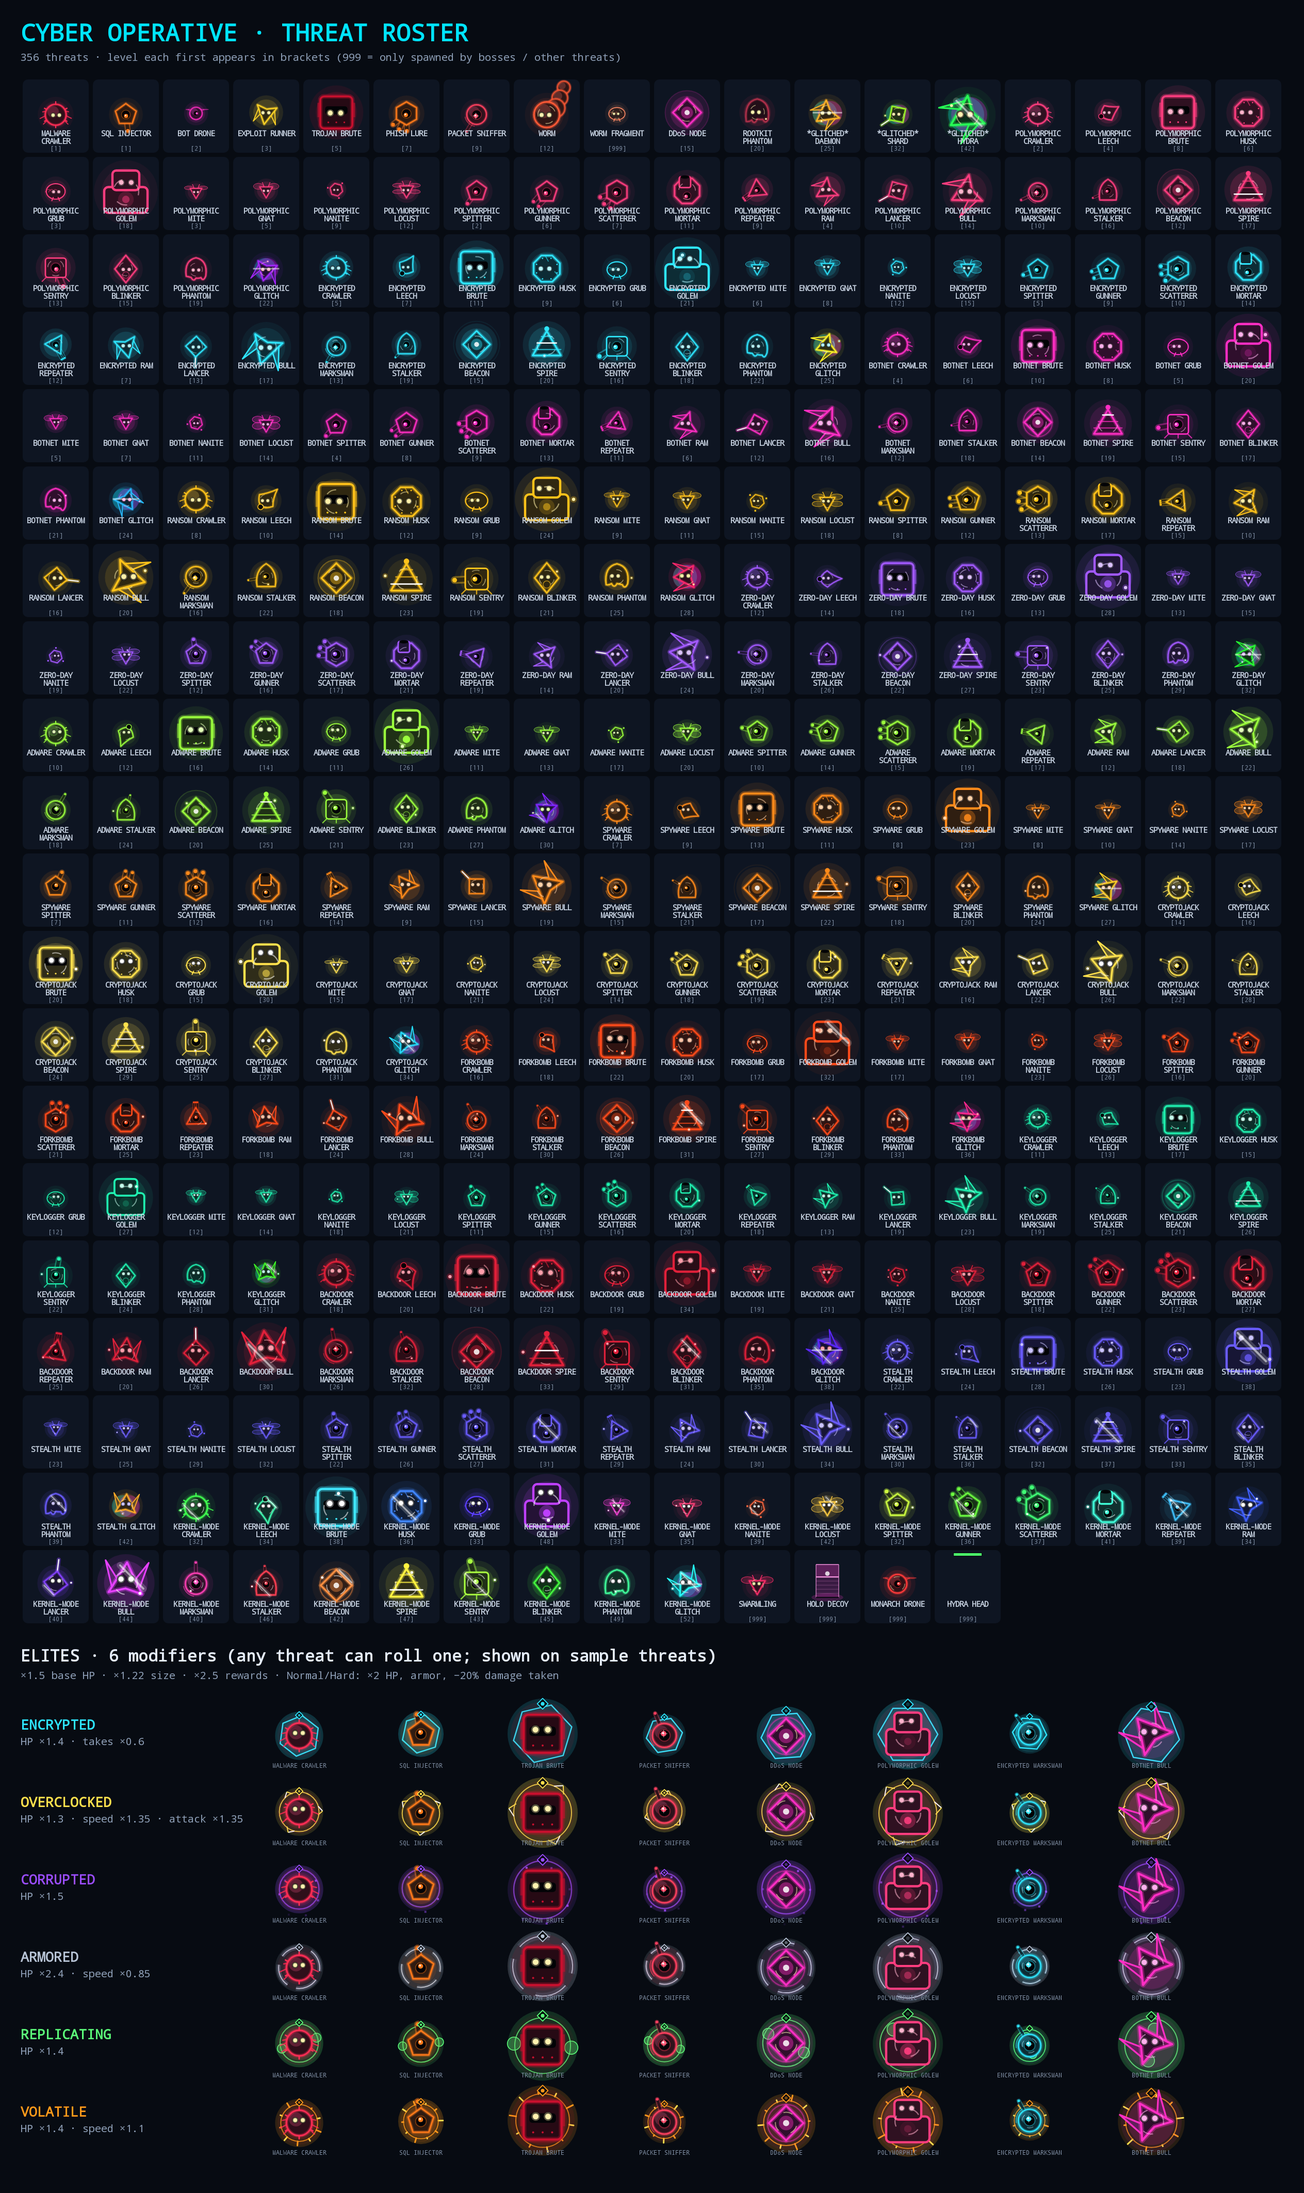
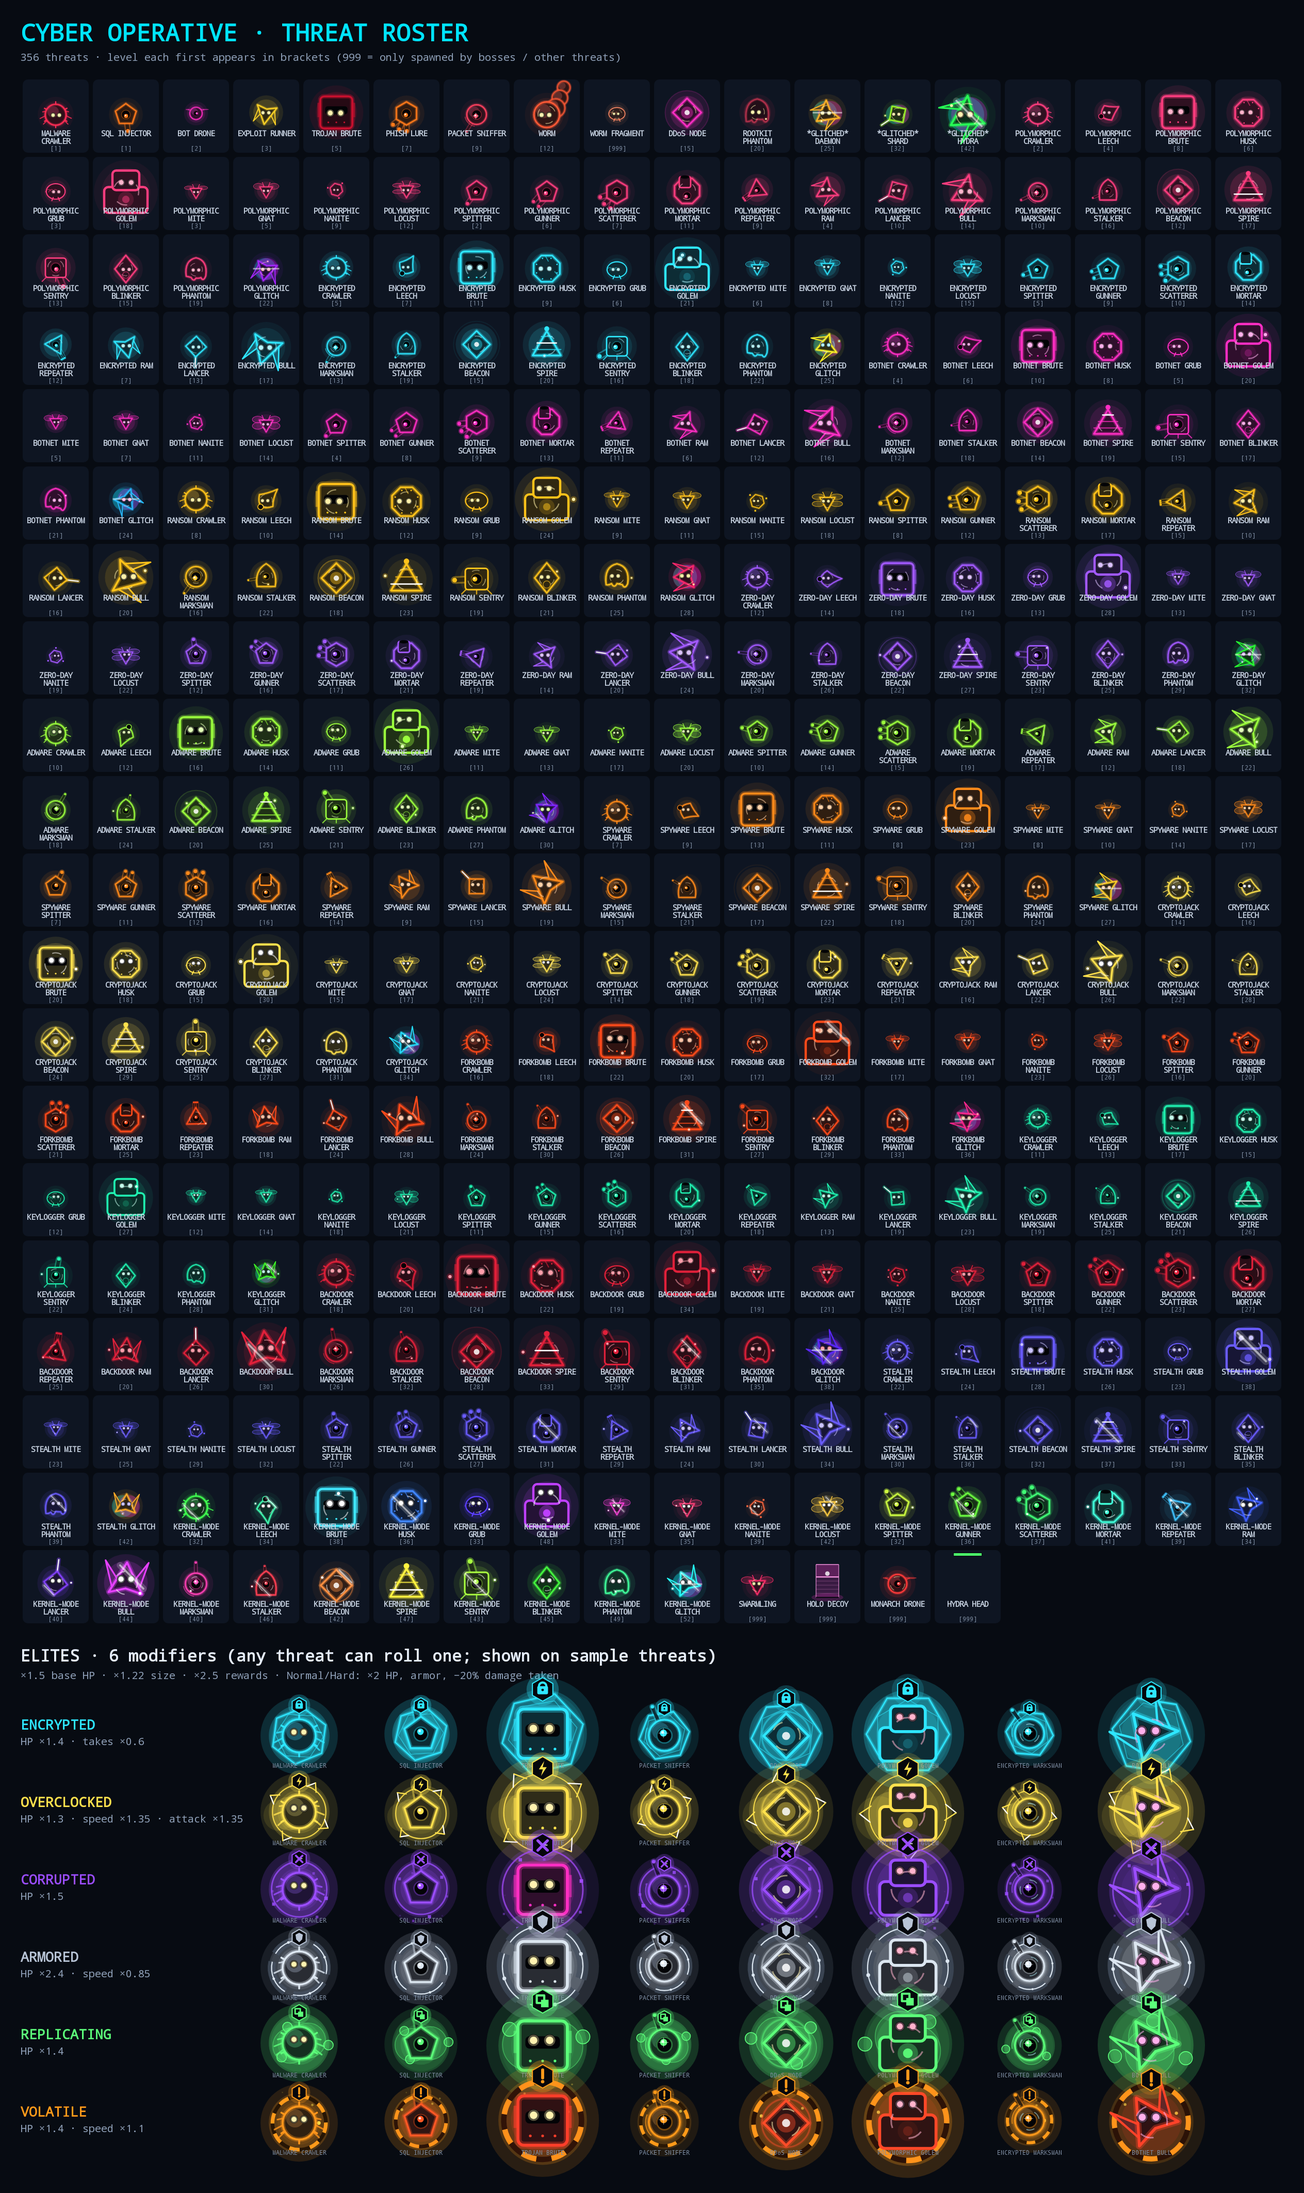
0.19.1: elites drawn 30% larger, modifier-coloured bodies, symbol badges, stronger frames
Claude-Session: https://claude.ai/code/session_01J4fYSi9rfQR62SLnfyrDCN

Changed region(s): [[0.1875, 0.7454, 0.5312, 0.9939], [0.5625, 0.7454, 0.8125, 0.9939], [0.8438, 0.7454, 0.9375, 0.9939]]

diff --git a/app/src/main/java/com/cyberoperative/game/ui/game/EnemySprites.kt b/app/src/main/java/com/cyberoperative/game/ui/game/EnemySprites.kt
@@ -116,11 +116,14 @@ internal object EnemySprites {
      * Draws threat [def] centred at ([cx], [cy]) with radius [r]. [aim] (radians) points at the
      * operative it is fighting; [winding] flashes the trim before an attack; [hit] whitens it.
      */
-    fun DrawScope.draw(def: EnemyDef, cx: Float, cy: Float, r: Float, time: Float, uid: Int, aim: Float, winding: Boolean, hit: Boolean) {
+    fun DrawScope.draw(def: EnemyDef, cx: Float, cy: Float, r: Float, time: Float, uid: Int, aim: Float, winding: Boolean, hit: Boolean,
+                       elite: EliteModifier? = null) {
         val lk = look(def)
         val glitch = lk.form == Form.GLITCH
         var trim = when {
             glitch -> Color.hsv((time * 220f + uid * 47f) % 360f, 0.85f, 1f)
+            // Elites wear their modifier's colour (owner, 2026-10-11: "more distinct").
+            elite != null -> eliteTrim(elite, time, uid)
             lk.spectrum -> Color.hsv((time * 90f + uid * 31f) % 360f, 0.75f, 1f)
             else -> lk.color
         }
@@ -523,71 +526,135 @@ internal object EnemySprites {
 
     // --- elites --------------------------------------------------------------------------
 
-    /** Behind the body: each elite modifier has its own frame. */
+    /** On-screen size of an elite next to a regular threat (hitbox unchanged). */
+    const val ELITE_DRAW_SCALE = 1.3f
+
+    /** The body trim an elite wears: its modifier colour (Corrupted flickers, Volatile throbs). */
+    private fun eliteTrim(m: EliteModifier, time: Float, uid: Int): Color = when (m) {
+        EliteModifier.CORRUPTED -> if (((time * 11f).toInt() + uid) % 7 == 0) Color(0xFFFF2EC4) else Color(m.color)
+        EliteModifier.VOLATILE -> mix(Color(m.color), Color(0xFFFF2D2D), 0.5f + 0.5f * sin(time * 9f + uid))
+        EliteModifier.ARMORED -> Color(0xFFDCE6F0)
+        else -> Color(m.color)
+    }
+
+    /** Behind the body: each modifier's own frame. */
     fun DrawScope.eliteBack(m: EliteModifier, c: Offset, r: Float, time: Float, uid: Int) {
         val col = Color(m.color)
         val p = 0.5f + 0.5f * sin(time * 5f + uid)
-        drawCircle(col.copy(alpha = 0.12f + 0.1f * p), r * 1.7f, c)
+        // A strong floor halo in the modifier colour so elites pop out of any crowd.
+        drawCircle(col.copy(alpha = 0.10f + 0.08f * p), r * 2.1f, c)
+        drawCircle(col.copy(alpha = 0.16f + 0.1f * p), r * 1.65f, c)
         when (m) {
             EliteModifier.ENCRYPTED -> {
-                // Rotating hex cage.
-                val cage = poly(c, r * 1.45f, 6, time * 0.6f)
-                drawPath(cage, col.copy(alpha = 0.12f))
-                drawPath(cage, col, style = Stroke(2.5f, join = StrokeJoin.Round))
+                val cage = poly(c, r * 1.55f, 6, time * 0.6f)
+                drawPath(cage, col.copy(alpha = 0.14f))
+                drawPath(cage, col.copy(alpha = 0.35f), style = Stroke(7f, join = StrokeJoin.Round))
+                drawPath(cage, col, style = Stroke(2.6f, join = StrokeJoin.Round))
+                val inner = poly(c, r * 1.3f, 6, -time * 0.9f)
+                drawPath(inner, col.copy(alpha = 0.6f), style = Stroke(1.4f, join = StrokeJoin.Round))
             }
             EliteModifier.OVERCLOCKED -> {
-                drawCircle(col.copy(alpha = 0.85f), r * 1.4f, c, style = Stroke(2f))
-                for (k in 0 until 3) {
-                    val a = time * 5f + k * MathUtil.TWO_PI / 3 + uid
-                    val p1 = Offset(c.x + cos(a) * r * 1.4f, c.y + sin(a) * r * 1.4f)
-                    val p2 = Offset(c.x + cos(a + 0.25f) * r * 1.65f, c.y + sin(a + 0.25f) * r * 1.65f)
-                    val p3 = Offset(c.x + cos(a + 0.45f) * r * 1.35f, c.y + sin(a + 0.45f) * r * 1.35f)
-                    drawLine(Color.White, p1, p2, 2f); drawLine(col, p2, p3, 2f)
+                // Speed after-images trailing behind, then crackling arcs.
+                for (k in 1..2) drawCircle(col.copy(alpha = 0.22f / k), r * (1f - k * 0.08f), Offset(c.x - k * r * 0.55f, c.y + k * r * 0.1f))
+                drawCircle(col.copy(alpha = 0.9f), r * 1.45f, c, style = Stroke(2.2f))
+                for (k in 0 until 4) {
+                    val a = time * 6f + k * MathUtil.TWO_PI / 4 + uid
+                    val p1 = Offset(c.x + cos(a) * r * 1.45f, c.y + sin(a) * r * 1.45f)
+                    val p2 = Offset(c.x + cos(a + 0.22f) * r * 1.8f, c.y + sin(a + 0.22f) * r * 1.8f)
+                    val p3 = Offset(c.x + cos(a + 0.42f) * r * 1.4f, c.y + sin(a + 0.42f) * r * 1.4f)
+                    drawLine(Color.White, p1, p2, 2.4f, StrokeCap.Round); drawLine(col, p2, p3, 2.4f, StrokeCap.Round)
                 }
             }
             EliteModifier.CORRUPTED -> {
-                drawCircle(col.copy(alpha = 0.7f), r * 1.4f, c, style = Stroke(2.5f))
-                for (k in 0 until 7) {
-                    val a = k * MathUtil.TWO_PI / 7 + uid
+                drawCircle(col.copy(alpha = 0.75f), r * 1.5f, c, style = Stroke(3f))
+                for (k in 0 until 10) {
+                    val a = k * MathUtil.TWO_PI / 10 + uid
                     val drip = ((time * 0.8f + k * 0.31f) % 1f)
-                    drawRect(col.copy(alpha = 1f - drip), Offset(c.x + cos(a) * r * 1.4f - 2f, c.y + sin(a) * r * 1.4f + drip * r * 0.6f), Size(4f, 4f))
+                    val s = 5f * (1f - drip) + 2f
+                    drawRect(col.copy(alpha = 1f - drip), Offset(c.x + cos(a) * r * 1.5f - s / 2, c.y + sin(a) * r * 1.5f + drip * r * 0.8f), Size(s, s))
                 }
             }
             EliteModifier.ARMORED -> {
                 for (k in 0 until 4) {
                     val a = k * 90f + 45f + time * 20f
-                    drawArc(Color(0xFF3A4452), a - 32f, 64f, false, Offset(c.x - r * 1.45f, c.y - r * 1.45f), Size(r * 2.9f, r * 2.9f), style = Stroke(r * 0.32f))
-                    drawArc(col, a - 32f, 64f, false, Offset(c.x - r * 1.45f, c.y - r * 1.45f), Size(r * 2.9f, r * 2.9f), style = Stroke(2f))
+                    drawArc(Color(0xFF3A4452), a - 36f, 72f, false, Offset(c.x - r * 1.5f, c.y - r * 1.5f), Size(r * 3f, r * 3f), style = Stroke(r * 0.42f))
+                    drawArc(Color(0xFFDCE6F0), a - 36f, 72f, false, Offset(c.x - r * 1.5f, c.y - r * 1.5f), Size(r * 3f, r * 3f), style = Stroke(2.2f))
+                    val ra = Math.toRadians(a.toDouble()).toFloat()
+                    drawCircle(Color(0xFFDCE6F0), r * 0.07f, Offset(c.x + cos(ra) * r * 1.5f, c.y + sin(ra) * r * 1.5f))
                 }
             }
             EliteModifier.REPLICATING -> {
+                // Two ghost clones peeling off the body.
                 for (k in 0 until 2) {
                     val a = time * 2.4f + k * MathUtil.PI
-                    val o = Offset(c.x + cos(a) * r * 1.4f, c.y + sin(a) * r * 0.8f)
-                    drawCircle(col.copy(alpha = 0.3f), r * 0.32f, o)
-                    drawCircle(col, r * 0.32f, o, style = Stroke(1.6f))
+                    val o = Offset(c.x + cos(a) * r * 0.55f, c.y + sin(a) * r * 0.3f)
+                    drawCircle(col.copy(alpha = 0.18f), r * 0.95f, o)
+                    drawCircle(col.copy(alpha = 0.45f), r * 0.95f, o, style = Stroke(1.6f))
                 }
-                drawCircle(col.copy(alpha = 0.8f), r * 1.35f, c, style = Stroke(2f))
+                for (k in 0 until 3) {
+                    val a = -time * 1.8f + k * MathUtil.TWO_PI / 3
+                    val o = Offset(c.x + cos(a) * r * 1.6f, c.y + sin(a) * r * 0.95f)
+                    drawCircle(col.copy(alpha = 0.35f), r * 0.26f, o)
+                    drawCircle(col, r * 0.26f, o, style = Stroke(1.6f))
+                }
             }
             EliteModifier.VOLATILE -> {
-                for (k in 0 until 10) {
-                    val a = k * MathUtil.TWO_PI / 10 + time * 1.5f
-                    val f = 0.6f + 0.4f * sin(time * 12f + k * 1.7f)
-                    drawLine(if (k % 2 == 0) col else Color(0xFFFFE14D), Offset(c.x + cos(a) * r * 1.3f, c.y + sin(a) * r * 1.3f),
-                        Offset(c.x + cos(a) * r * (1.3f + 0.35f * f), c.y + sin(a) * r * (1.3f + 0.35f * f)), 3f, StrokeCap.Round)
+                // Hazard-striped warning ring and rising embers.
+                for (k in 0 until 16) {
+                    val a = k * 22.5f + time * 40f
+                    drawArc(if (k % 2 == 0) col else Color(0xFF1A0E04), a, 22.5f, false, Offset(c.x - r * 1.45f, c.y - r * 1.45f), Size(r * 2.9f, r * 2.9f), style = Stroke(r * 0.2f))
                 }
-                drawCircle(col.copy(alpha = 0.8f), r * 1.3f, c, style = Stroke(2f))
+                for (k in 0 until 6) {
+                    val f = ((time * 0.9f + k * 0.17f + uid * 0.05f) % 1f)
+                    val x = c.x + sin(k * 2.3f + uid) * r * 1.1f
+                    drawCircle(Color(0xFFFFE14D).copy(alpha = 1f - f), 2.6f * (1f - f) + 1f, Offset(x, c.y - f * r * 2f))
+                }
             }
         }
     }
 
-    /** In front of the body: a small badge so the modifier reads even in a crowd. */
+    /** In front of the body: a big badge with the modifier's symbol, readable in a crowd. */
     fun DrawScope.eliteFront(m: EliteModifier, c: Offset, r: Float, time: Float) {
         val col = Color(m.color)
-        val b = Offset(c.x, c.y - r * 1.45f)
-        val s = max(4f, r * 0.26f)
-        drawPath(poly(b, s, 4, -MathUtil.PI / 2f), Color(0xFF05070C))
-        drawPath(poly(b, s, 4, -MathUtil.PI / 2f), col, style = Stroke(1.8f, join = StrokeJoin.Round))
-        drawCircle(col.copy(alpha = 0.6f + 0.4f * sin(time * 6f)), s * 0.35f, b)
+        val s = max(7f, r * 0.4f)
+        val b = Offset(c.x, c.y - r * 1.25f - s)
+        val pulse = 0.75f + 0.25f * sin(time * 6f)
+        drawCircle(col.copy(alpha = 0.3f * pulse), s * 1.5f, b)
+        drawPath(poly(b, s * 1.1f, 6, -MathUtil.PI / 2f), Color(0xFF05070C))
+        drawPath(poly(b, s * 1.1f, 6, -MathUtil.PI / 2f), col, style = Stroke(2f, join = StrokeJoin.Round))
+        val w = max(1.5f, s * 0.2f)
+        val st = Stroke(w, cap = StrokeCap.Round, join = StrokeJoin.Round)
+        when (m) {
+            EliteModifier.ENCRYPTED -> { // padlock
+                drawArc(col, 180f, 180f, false, Offset(b.x - s * 0.35f, b.y - s * 0.65f), Size(s * 0.7f, s * 0.7f), style = st)
+                drawRoundRect(col, Offset(b.x - s * 0.5f, b.y - s * 0.3f), Size(s, s * 0.75f), CornerRadius(s * 0.12f))
+                drawCircle(Color(0xFF05070C), s * 0.12f, Offset(b.x, b.y + s * 0.05f))
+            }
+            EliteModifier.OVERCLOCKED -> { // lightning bolt
+                path.reset(); path.moveTo(b.x + s * 0.15f, b.y - s * 0.7f); path.lineTo(b.x - s * 0.35f, b.y + s * 0.08f)
+                path.lineTo(b.x + s * 0.02f, b.y + s * 0.08f); path.lineTo(b.x - s * 0.15f, b.y + s * 0.7f)
+                path.lineTo(b.x + s * 0.38f, b.y - s * 0.12f); path.lineTo(b.x, b.y - s * 0.12f); path.close()
+                drawPath(path, col)
+            }
+            EliteModifier.CORRUPTED -> { // glitched X
+                drawLine(col, Offset(b.x - s * 0.45f, b.y - s * 0.45f), Offset(b.x + s * 0.45f, b.y + s * 0.45f), w * 1.3f, StrokeCap.Round)
+                drawLine(col, Offset(b.x + s * 0.45f, b.y - s * 0.45f), Offset(b.x - s * 0.45f, b.y + s * 0.45f), w * 1.3f, StrokeCap.Round)
+                drawRect(Color.White.copy(alpha = 0.7f), Offset(b.x + s * 0.2f, b.y - s * 0.1f), Size(s * 0.25f, s * 0.12f))
+            }
+            EliteModifier.ARMORED -> { // shield
+                path.reset(); path.moveTo(b.x, b.y - s * 0.65f); path.lineTo(b.x + s * 0.5f, b.y - s * 0.4f)
+                path.lineTo(b.x + s * 0.4f, b.y + s * 0.25f); path.lineTo(b.x, b.y + s * 0.65f)
+                path.lineTo(b.x - s * 0.4f, b.y + s * 0.25f); path.lineTo(b.x - s * 0.5f, b.y - s * 0.4f); path.close()
+                drawPath(path, col)
+            }
+            EliteModifier.REPLICATING -> { // two overlapping squares
+                drawRect(col, Offset(b.x - s * 0.55f, b.y - s * 0.55f), Size(s * 0.7f, s * 0.7f), style = st)
+                drawRect(col, Offset(b.x - s * 0.15f, b.y - s * 0.15f), Size(s * 0.7f, s * 0.7f))
+            }
+            EliteModifier.VOLATILE -> { // warning !
+                drawLine(col, Offset(b.x, b.y - s * 0.6f), Offset(b.x, b.y + s * 0.15f), w * 1.4f, StrokeCap.Round)
+                drawCircle(col, w * 0.8f, Offset(b.x, b.y + s * 0.5f))
+            }
+        }
     }
 }

diff --git a/app/src/main/java/com/cyberoperative/game/ui/game/ArenaRenderer.kt b/app/src/main/java/com/cyberoperative/game/ui/game/ArenaRenderer.kt
@@ -1216,14 +1216,16 @@ class ArenaRenderer {
         if (boss == null) {
             // Regular threats: neon emblem sprites (EnemySprites); elites wear their modifier frame.
             val ang = kotlin.math.atan2(g.py - e.y, g.px - e.x)
+            // Elites are drawn 30% larger than their hitbox so they stand out (owner, 2026-10-11).
+            val vr = if (elite != null) e.radius * EnemySprites.ELITE_DRAW_SCALE else e.radius
             with(EnemySprites) {
-                if (elite != null) eliteBack(elite, Offset(cx, cy), e.radius, time, e.uid)
-                draw(e.def, cx, cy, e.radius, time, e.uid, ang, e.state == AiState.WINDUP, e.hitFlash > 0f)
-                if (elite != null) eliteFront(elite, Offset(cx, cy), e.radius, time)
+                if (elite != null) eliteBack(elite, Offset(cx, cy), vr, time, e.uid)
+                draw(e.def, cx, cy, vr, time, e.uid, ang, e.state == AiState.WINDUP, e.hitFlash > 0f, elite)
+                if (elite != null) eliteFront(elite, Offset(cx, cy), vr, time)
             }
             if (e.hp < e.maxHp) {
-                val bw = e.radius * 2f
-                val by = cy - e.radius - (if (elite != null) e.radius * 0.75f else 12f)
+                val bw = vr * 2f
+                val by = cy - vr - (if (elite != null) vr * 1.3f + 10f else 12f)
                 drawRect(Color(0xAA000000), Offset(e.x - bw / 2f, by), Size(bw, 4f))
                 drawRect(Palette.Red, Offset(e.x - bw / 2f, by), Size(bw * (e.hp / e.maxHp).coerceIn(0f, 1f), 4f))
             }

diff --git a/CHANGELOG.md b/CHANGELOG.md
@@ -1,5 +1,21 @@
 # Changelog
 
+## 0.19.1 (versionCode 65) — 2026-10-11 · Bigger, more distinct elites
+### Changed (owner: "make the elites bigger and more distinct")
+- **Elites are drawn 30% larger** (`EnemySprites.ELITE_DRAW_SCALE`). The hitbox is unchanged, so
+  balance is the same.
+- **Every elite wears its modifier's colour** on the whole body, plus a strong colour halo on the floor.
+- **A big hexagon badge with a symbol** floats above each elite. Each type also has its own frame:
+
+  | Elite | Badge | Frame |
+  |---|---|---|
+  | Encrypted | padlock | double rotating hex cage |
+  | Overclocked | lightning bolt | speed after-images and arcs |
+  | Corrupted | glitched X | flickering trim, dripping pixels |
+  | Armored | shield | silver body, thick riveted plate ring |
+  | Replicating | copy | ghost clones peeling off, orbiting mini-copies |
+  | Volatile | "!" | red-orange throbbing trim, hazard-stripe ring, rising embers |
+
 ## 0.19.0 (versionCode 64) — 2026-10-11 · Threat texture upgrade
 ### Changed (owner: "upgrade all of the enemy textures for the small ones and elites… many many different colors… sheen… keep the glitched ones")
 - **Every regular threat redrawn** as a neon emblem creature (`ui/game/EnemySprites.kt`). Each has a

diff --git a/DEVELOPMENT_STATE.md b/DEVELOPMENT_STATE.md
@@ -6,7 +6,7 @@ _Read this first in every new session, then README, GAME_DESIGN, BACKLOG, CHANGE
 
 | | |
 |---|---|
-| Version | 0.19.0 (versionCode 64) |
+| Version | 0.19.1 (versionCode 65) |
 | Milestone | M1 vertical slice ✅ · M2 first boss & systems ✅ (pending device playtest) |
 | Last completed | 0.9.5 fullscreen HUD redesign (ui/game/GameHud.kt, buff chips in UpgradeBar.kt) |
 | Current task | Waiting on owner: body design (CO-094) and Power-Up Board picks (CO-090) |

diff --git a/README.md b/README.md
@@ -16,7 +16,7 @@ Play **co-op** with a friend (friend codes, invites, live two-player runs; see `
 
 ## Project status
 
-`0.19.0` — Boss Expansion Vol. 1 under way; 0.16.0 balance pass (pooled mastery, bigger Packet Flood) (see `DEVELOPMENT_STATE.md` and `docs/BOSS_EXPANSION_LOG.md`).
+`0.19.1` — Boss Expansion Vol. 1 under way; 0.16.0 balance pass (pooled mastery, bigger Packet Flood) (see `DEVELOPMENT_STATE.md` and `docs/BOSS_EXPANSION_LOG.md`).
 
 | | |
 |---|---|
